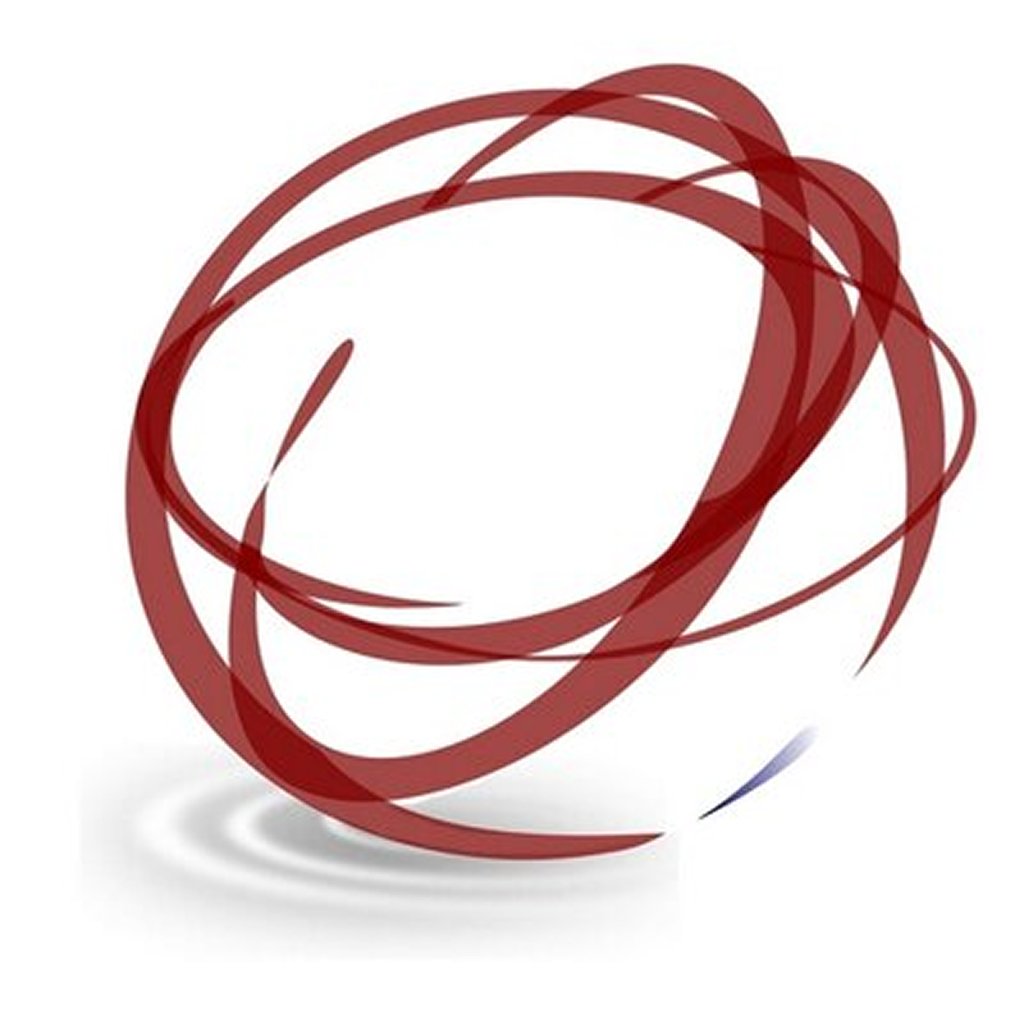
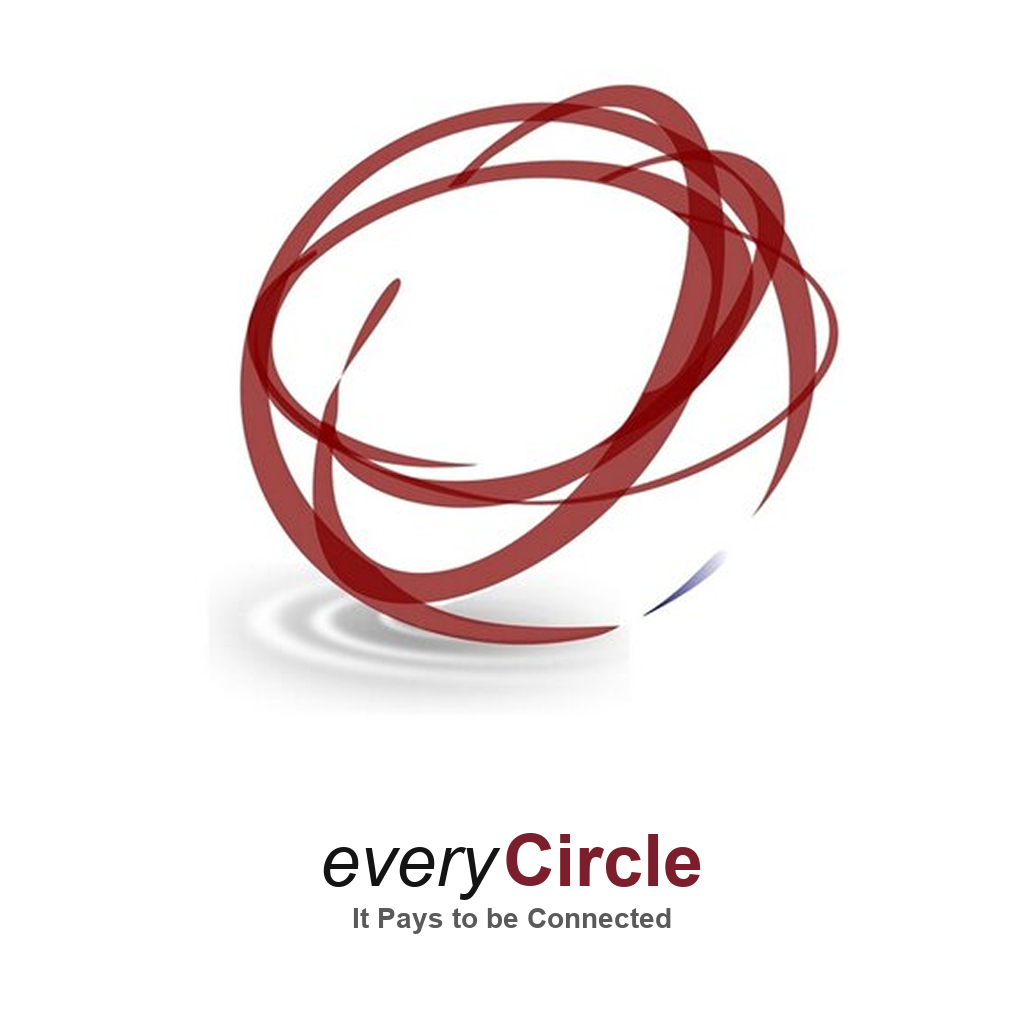
updating for Android Play Store feedback

Changed region(s): [[0.0938, 0.0625, 0.9688, 0.9062], [0.7188, 0.7188, 0.8125, 0.7812], [0.6875, 0.7812, 0.7188, 0.8125]]

diff --git a/public/child-safety.html b/public/child-safety.html
@@ -1,0 +1,227 @@
+<!DOCTYPE html>
+<html lang="en">
+<head>
+  <meta charset="utf-8" />
+  <meta name="viewport" content="width=device-width, initial-scale=1" />
+  <title>everyCircle Child Safety &amp; CSAE Policy</title>
+  <meta name="description" content="everyCircle Child Safety Standards: zero-tolerance policy prohibiting child sexual abuse and exploitation (CSAE) and child sexual abuse material (CSAM)." />
+  <style>
+    :root {
+      --text: #222;
+      --muted: #444;
+      --bg: #fff;
+      --accent: #7a1f2b;
+      --border: #e6e6e6;
+    }
+    * { box-sizing: border-box; }
+    body {
+      margin: 0;
+      font-family: -apple-system, BlinkMacSystemFont, "Segoe UI", Roboto, Helvetica, Arial, sans-serif;
+      line-height: 1.55;
+      color: var(--text);
+      background: var(--bg);
+    }
+    header {
+      border-bottom: 1px solid var(--border);
+      padding: 1.25rem 1.5rem;
+    }
+    header .brand {
+      font-size: 1.25rem;
+      font-weight: 700;
+    }
+    header .brand .every { font-style: italic; font-weight: 600; }
+    header .brand .circle { color: var(--accent); }
+    main {
+      max-width: 48rem;
+      margin: 0 auto;
+      padding: 1.5rem 1.5rem 3rem;
+    }
+    h1 {
+      font-size: 1.75rem;
+      line-height: 1.25;
+      margin: 0 0 0.5rem;
+    }
+    .updated {
+      color: var(--muted);
+      margin-bottom: 1.75rem;
+    }
+    h2 {
+      font-size: 1.15rem;
+      margin: 1.75rem 0 0.75rem;
+    }
+    h3 {
+      font-size: 1rem;
+      margin: 1.25rem 0 0.5rem;
+    }
+    p, li { color: var(--muted); }
+    ul { padding-left: 1.25rem; }
+    li { margin-bottom: 0.35rem; }
+    a { color: var(--accent); }
+    .contact {
+      background: #faf7f7;
+      border: 1px solid var(--border);
+      border-radius: 8px;
+      padding: 1rem 1.15rem;
+      margin: 1rem 0;
+    }
+    footer {
+      margin-top: 2.5rem;
+      padding-top: 1rem;
+      border-top: 1px solid var(--border);
+      color: var(--muted);
+      font-size: 0.95rem;
+    }
+  </style>
+</head>
+<body>
+  <header>
+    <div class="brand"><span class="every">every</span><span class="circle">Circle</span></div>
+  </header>
+  <main>
+    <h1>everyCircle Child Safety &amp; Child Sexual Abuse and Exploitation (CSAE) Policy</h1>
+    <p class="updated">Last updated: September 15, 2026</p>
+
+    <h2>1. Our Commitment to Child Safety</h2>
+    <p>everyCircle is committed to maintaining a safe environment for its users and has a zero-tolerance policy toward child sexual abuse and exploitation (CSAE).</p>
+    <p>This Child Safety &amp; CSAE Policy applies to the everyCircle application, website, services, and content and interactions made available through everyCircle.</p>
+    <p>everyCircle strictly prohibits any content, conduct, or activity that sexually exploits, abuses, or endangers children.</p>
+    <p>everyCircle will take appropriate action when it becomes aware of suspected child sexual abuse, exploitation, or child sexual abuse material (CSAM), consistent with applicable law and this policy.</p>
+
+    <h2>2. Prohibited Child Sexual Abuse and Exploitation</h2>
+    <p>Users may not use everyCircle to:</p>
+    <ul>
+      <li>Sexually exploit or abuse a child.</li>
+      <li>Groom, solicit, manipulate, or otherwise prepare a child for sexual exploitation or abuse.</li>
+      <li>Engage in or facilitate sexual activity involving a child.</li>
+      <li>Produce, request, possess, upload, transmit, distribute, or share child sexual abuse material (CSAM).</li>
+      <li>Sexualize minors or encourage the sexual exploitation of minors.</li>
+      <li>Engage in sextortion or threaten a child using actual or alleged intimate images.</li>
+      <li>Advertise, solicit, arrange, or facilitate the commercial sexual exploitation or trafficking of a child.</li>
+      <li>Facilitate contact between an adult and a child for the purpose of sexual exploitation or abuse.</li>
+      <li>Use everyCircle to obtain sexual images or other sexually exploitative material involving a child.</li>
+      <li>Attempt to circumvent everyCircle's safety or moderation systems to facilitate CSAE.</li>
+      <li>Encourage, promote, assist, or provide instructions for any prohibited conduct involving the sexual abuse or exploitation of children.</li>
+    </ul>
+    <p>These prohibitions apply to all content and activity supported by everyCircle, including user profiles, photographs, videos, recommendations, offerings, listings, reviews, comments, messages, and other user-generated content.</p>
+
+    <h2>3. Child Sexual Abuse Material (CSAM)</h2>
+    <p>everyCircle does not permit the creation, upload, storage, sharing, distribution, solicitation, or promotion of CSAM.</p>
+    <p>Users must not upload CSAM to everyCircle, including for the purpose of reporting it. Suspected CSAM should instead be reported through everyCircle's reporting mechanisms or by contacting everyCircle Support.</p>
+    <p>If everyCircle becomes aware of suspected CSAM or other content involving the sexual exploitation or abuse of a child, everyCircle may take appropriate action, including:</p>
+    <ul>
+      <li>Removing or restricting access to the reported content.</li>
+      <li>Restricting, suspending, or terminating accounts involved in prohibited activity.</li>
+      <li>Preserving relevant information when appropriate and legally permitted.</li>
+      <li>Reporting suspected CSAM or child sexual exploitation to appropriate authorities or designated organizations when required by applicable law.</li>
+      <li>Cooperating with lawful requests from law enforcement, child-safety organizations, and other authorized authorities.</li>
+    </ul>
+
+    <h2>4. Community Reporting and Safety Measures</h2>
+    <p>everyCircle provides users with the ability to flag or report a business, user profile, or offering that they believe violates everyCircle's Terms of Service, Community Guidelines, Child Safety &amp; CSAE Policy, or other applicable policies.</p>
+    <p>everyCircle uses community reporting as one part of its overall safety and moderation system.</p>
+
+    <h3>Automatic Temporary Removal</h3>
+    <p>When a business, profile, or offering receives three or more independent user flags, everyCircle automatically removes that business, profile, or offering from public view and places it into an internal review process.</p>
+    <p>The reported business, profile, or offering remains unavailable to users while the internal review is conducted.</p>
+    <p>Following review, everyCircle may:</p>
+    <ul>
+      <li>Restore the business, profile, or offering if the reports are determined to be unfounded.</li>
+      <li>Remove or restrict the reported content.</li>
+      <li>Suspend or terminate the associated user account.</li>
+      <li>Take additional enforcement action under everyCircle's policies.</li>
+      <li>Report suspected illegal activity to appropriate authorities when required or appropriate.</li>
+    </ul>
+    <p>An automatic removal following three flags is a precautionary safety measure and does not, by itself, constitute a finding that the reported content or conduct violated the law or everyCircle's policies.</p>
+
+    <h3>Immediate Safety Action</h3>
+    <p>everyCircle may take immediate action without waiting for three flags when it identifies content or conduct presenting a serious or urgent safety concern.</p>
+    <p>This may include suspected:</p>
+    <ul>
+      <li>Child sexual abuse or exploitation.</li>
+      <li>CSAM.</li>
+      <li>Grooming.</li>
+      <li>Sextortion.</li>
+      <li>Child trafficking or commercial sexual exploitation.</li>
+      <li>Credible threats of violence or other serious harm.</li>
+      <li>Other potentially illegal or dangerous activity.</li>
+    </ul>
+    <p>everyCircle may immediately restrict access to the relevant content, business, profile, offering, or account and conduct an internal review.</p>
+
+    <h2>5. Reporting Child Safety Concerns</h2>
+    <p>Users should report suspected CSAE, CSAM, grooming, sexual exploitation of a child, or other child-safety concerns through the reporting functionality available within the everyCircle application.</p>
+    <div class="contact">
+      <p><strong>everyCircle Support</strong><br />
+      Email: <a href="mailto:support@everycircle.com">support@everycircle.com</a></p>
+    </div>
+    <p>Reports should include sufficient information for everyCircle to identify and investigate the reported account, content, business, profile, offering, or conduct.</p>
+    <p>everyCircle takes reports involving the safety of children seriously and will review reports and take appropriate action consistent with this policy, applicable law, and the circumstances of the report.</p>
+    <p>Users should not upload or send suspected CSAM to everyCircle for the purpose of making a report.</p>
+
+    <h2>6. Enforcement</h2>
+    <p>everyCircle may take action against accounts, content, businesses, profiles, offerings, or other activity that violates this policy.</p>
+    <p>Depending on the circumstances, enforcement may include:</p>
+    <ul>
+      <li>Removal of content.</li>
+      <li>Temporary restriction or removal from public view.</li>
+      <li>Restriction of content visibility.</li>
+      <li>Suspension of an account.</li>
+      <li>Permanent termination of an account.</li>
+      <li>Restriction or termination of access to everyCircle services.</li>
+      <li>Preservation of information when appropriate and legally permitted.</li>
+      <li>Reporting to appropriate authorities or child-safety organizations.</li>
+    </ul>
+    <p>everyCircle may take action based on user reports, internal investigations, automated or other safety measures, information provided by users, or information received from law enforcement or other authorized organizations.</p>
+
+    <h2>7. Cooperation With Authorities</h2>
+    <p>everyCircle will comply with applicable child-safety laws and legal requirements.</p>
+    <p>Where required by applicable law, everyCircle will report confirmed or suspected CSAM or child sexual exploitation to the appropriate authorities or designated reporting organizations.</p>
+    <p>For users and activity in the United States, this may include reporting to the National Center for Missing &amp; Exploited Children (NCMEC) when required by applicable law.</p>
+    <p>everyCircle may also cooperate with law enforcement and other authorized authorities investigating child sexual abuse or exploitation.</p>
+
+    <h2>8. Child Safety Point of Contact</h2>
+    <p>everyCircle maintains a designated point of contact for child-safety matters.</p>
+    <p>The child-safety point of contact is responsible for receiving and responding to child-safety concerns and coordinating appropriate enforcement and reporting procedures.</p>
+    <div class="contact">
+      <p><strong>Child Safety Contact: everyCircle Support</strong><br />
+      Email: <a href="mailto:support@everycircle.com">support@everycircle.com</a></p>
+    </div>
+    <p>This contact may also receive communications from Google Play or other authorized parties concerning potential child sexual abuse and exploitation on the everyCircle platform.</p>
+
+    <h2>9. User-Generated Content</h2>
+    <p>everyCircle contains user-generated content, which may include profiles, recommendations, photographs, reviews, offerings, listings, comments, messages, and other content submitted by users.</p>
+    <p>Users are responsible for complying with everyCircle's Terms of Service, Community Guidelines, and this Child Safety &amp; CSAE Policy.</p>
+    <p>everyCircle prohibits user-generated content or behavior that facilitates, promotes, depicts, solicits, or encourages the sexual abuse or exploitation of children.</p>
+    <p>everyCircle will take appropriate action when it becomes aware of prohibited content or conduct.</p>
+
+    <h2>10. Protection of Children</h2>
+    <p>everyCircle does not permit the platform to be used to facilitate sexual contact, grooming, sexual exploitation, trafficking, or abuse of children.</p>
+    <p>Users must not use everyCircle to establish or maintain relationships with children for the purpose of sexual exploitation, abuse, grooming, sextortion, trafficking, or obtaining sexual imagery.</p>
+    <p>Any attempt to use everyCircle for these purposes may result in immediate account termination and, where appropriate or legally required, reporting to authorities.</p>
+
+    <h2>11. No Retaliation for Good-Faith Reports</h2>
+    <p>everyCircle prohibits retaliation against users who make good-faith reports concerning child safety, CSAE, or CSAM.</p>
+    <p>False reports or abuse of everyCircle's reporting system may violate everyCircle's Terms of Service or Community Guidelines and may result in enforcement action.</p>
+    <p>The three-flag automatic removal mechanism is intended as a safety measure and does not prevent everyCircle from investigating reports individually or taking action based on the circumstances of a particular report.</p>
+
+    <h2>12. Privacy and Information Handling</h2>
+    <p>everyCircle handles information associated with reports, investigations, and enforcement actions in accordance with its Privacy Policy and applicable law.</p>
+    <p>everyCircle may retain and disclose information relating to suspected CSAE or CSAM when reasonably necessary to investigate violations, protect users, comply with legal obligations, or respond to lawful requests from authorities.</p>
+
+    <h2>13. Updates to This Policy</h2>
+    <p>everyCircle may update this Child Safety &amp; CSAE Policy from time to time to reflect changes in applicable law, Google Play requirements, safety practices, or everyCircle's services.</p>
+    <p>The current version of this policy remains publicly accessible at <a href="https://everycircle.com/child-safety">https://everycircle.com/child-safety</a>.</p>
+
+    <h2>14. Contact</h2>
+    <p>Questions or concerns regarding child safety, CSAE, CSAM, or this policy may be directed to:</p>
+    <div class="contact">
+      <p><strong>everyCircle Support</strong><br />
+      <a href="mailto:support@everycircle.com">support@everycircle.com</a></p>
+    </div>
+    <p>everyCircle is committed to maintaining a platform that does not facilitate child sexual abuse or exploitation and to taking appropriate action when such activity is identified.</p>
+
+    <footer>
+      <p>&copy; everyCircle. This page is the publicly published Child Safety Standards for the everyCircle app.</p>
+    </footer>
+  </main>
+</body>
+</html>

diff --git a/screens/ChildSafetyScreen.js b/screens/ChildSafetyScreen.js
@@ -5,7 +5,9 @@ import BottomNavBar from "../components/BottomNavBar";
 import AppHeader from "../components/AppHeader";
 import { useDarkMode } from "../contexts/DarkModeContext";
 
-const CHILD_SAFETY_POLICY_TEXT = `Last updated: September 3, 2026
+const CHILD_SAFETY_POLICY_TEXT = `Last updated: September 15, 2026
+
+The publicly published version of these standards is available at https://everycircle.com/child-safety.
 
 1. Our Commitment to Child Safety
 
@@ -179,6 +181,9 @@ Questions or concerns regarding child safety, CSAE, CSAM, or this policy may be 
 
 everyCircle Support
 support@everycircle.com
+
+The publicly published Child Safety Standards for everyCircle are available at:
+https://everycircle.com/child-safety
 
 everyCircle is committed to maintaining a platform that does not facilitate child sexual abuse or exploitation and to taking appropriate action when such activity is identified.`;
 

diff --git a/store-listing/GOOGLE_PLAY.md b/store-listing/GOOGLE_PLAY.md
@@ -1,0 +1,64 @@
+# Google Play store listing fixes
+
+Use these values in Play Console → Store presence → Main store listing (and App content → Child Safety Standards).
+
+## Why the listing was flagged
+
+1. **Impersonation** — Google cited the hi-res icon and title. Keep the official name **`everyCircle`** (camelCase). If the listing previously used **Every Circle** (two words) or mixed spellings, align title, developer branding, and icon wordmark on **everyCircle** everywhere so it reads as one consistent brand—not a lookalike of other “Circle” apps.
+2. **Metadata** — The old full description was vague, had typos, and did not clearly describe core features.
+3. **Child Safety Standards** — Google requires a **public HTML** page that explicitly prohibits CSAE. The in-app policy alone is not enough; `https://everycircle.com/child-safety` must serve crawlable standards (now `public/child-safety.html`).
+
+## Title (≤ 30 characters)
+
+**Keep:** `everyCircle`
+
+Use this exact spelling in the Play title, icon wordmark, and descriptions. Do not use `Every Circle`, `EveryCircle`, or a bare `Circle`.
+
+## Short description (≤ 80 characters)
+
+```
+Earn rewards for trusted referrals. Businesses pay only when recommendations convert.
+```
+
+## Full description (paste as-is)
+
+```
+everyCircle is a professional networking and referral-rewards app for individuals and businesses.
+
+WHAT YOU CAN DO
+• Build a trusted network of friends, colleagues, customers, and professionals
+• Share and request recommendations for products and services
+• List business offerings and seeking requests
+• Message people in your network about opportunities
+• Earn a bounty when your recommendation leads to a qualifying purchase
+• For businesses: reward advocates and pay only when a recommendation becomes a sale
+
+HOW IT WORKS
+1. Create your profile (individual or business).
+2. Connect with people you know and grow your circle.
+3. Recommend businesses, products, or services — or ask your network for help.
+4. When a recommendation leads to a qualifying purchase, rewards are shared among the people who made the connection possible.
+
+WHO IT’S FOR
+• Individuals who want to turn trusted word-of-mouth into rewards
+• Businesses that want results-based referral marketing instead of paying only for ads or subscriptions
+
+everyCircle is an independent app from everyCircle.com. It is not affiliated with other apps or companies named Circle.
+```
+
+## Hi-res icon
+
+Upload `store-listing/hi-res-icon-512.png` (also baked into `assets/icon.png` for the next native build).
+
+The updated icon keeps your maroon sphere mark and adds the **everyCircle** wordmark plus tagline so it is clearly your brand, not a generic Circle logo.
+
+## Child Safety Standards declaration
+
+In Play Console → App content → Child Safety Standards:
+
+- **Published standards URL:** `https://everycircle.com/child-safety`
+- **Point of contact email:** `support@everycircle.com`
+- Confirm in-app reporting / feedback exists
+- Confirm CSAM handling and legal compliance as described in the published policy
+
+**Deploy note:** Ship `public/child-safety.html` and the updated `public/_redirects` to production before resubmitting. After deploy, open the URL in a private browser window and confirm the full CSAE policy text is visible **without** installing the app.
